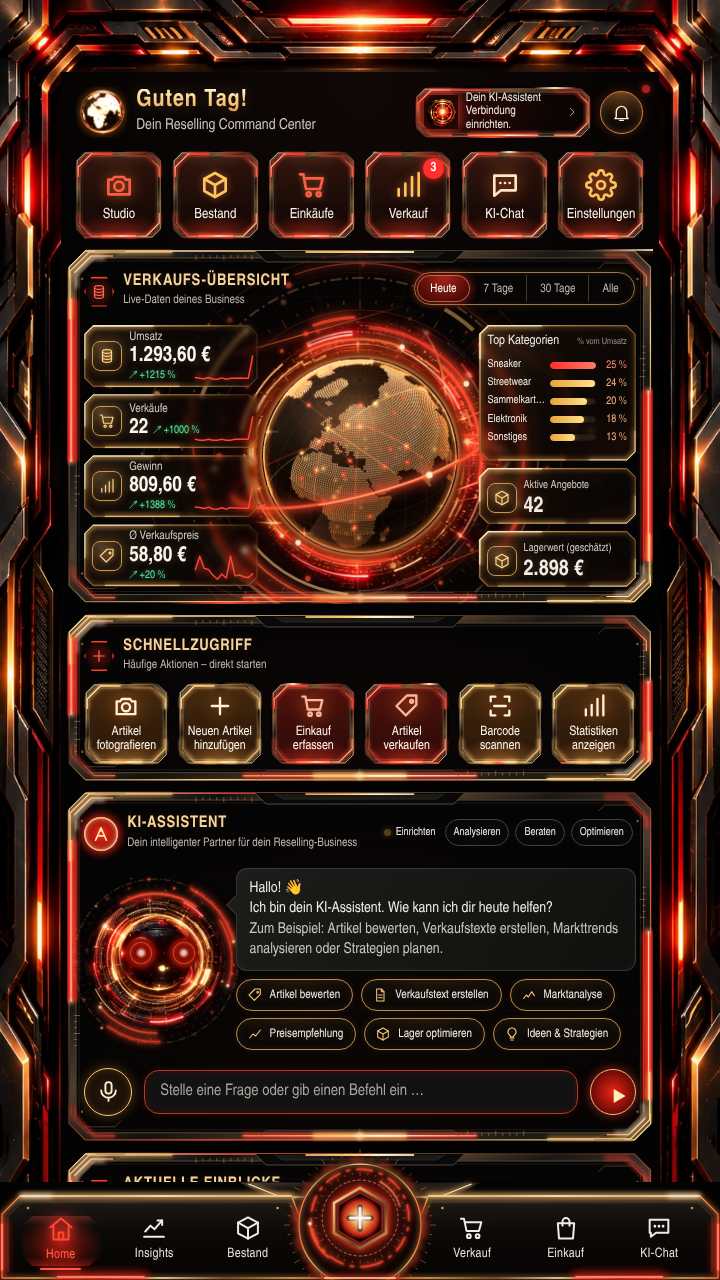
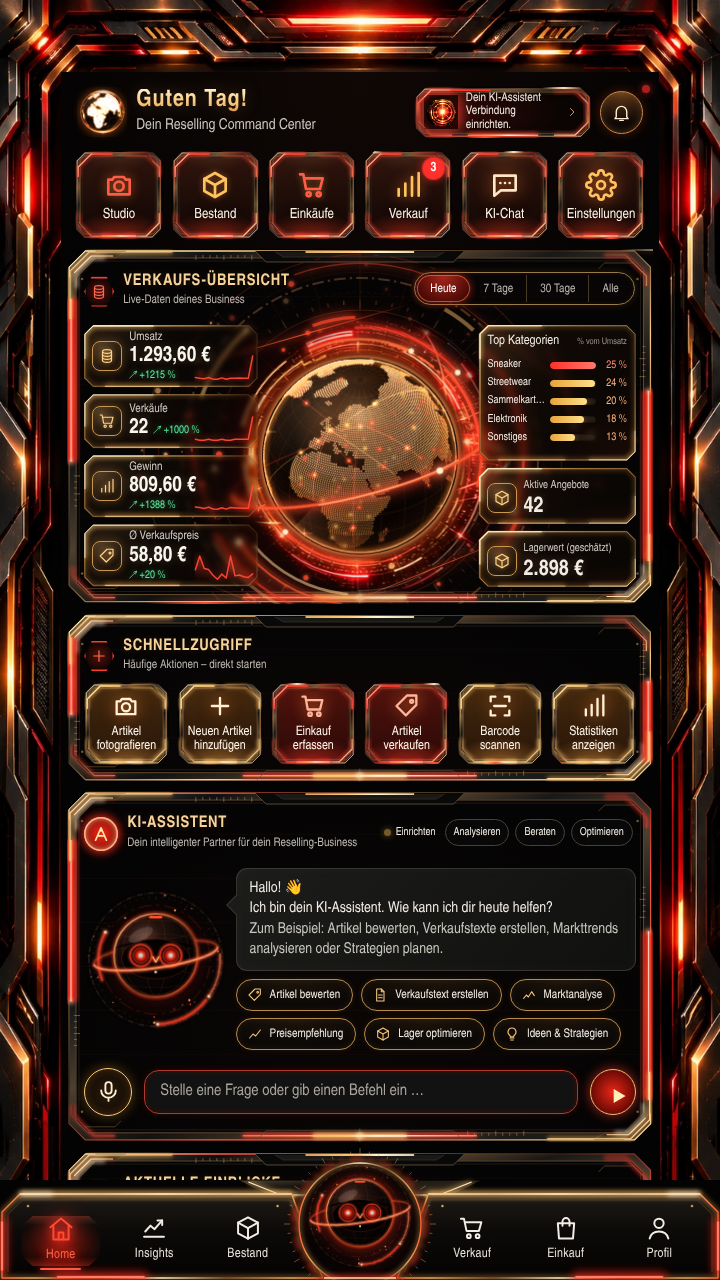
KI-Chat-Seite fertig ausgerichtet, Roboter größer
- Status-Knöpfe und Verlauf leeren korrekt oben rechts
- Titel in der Command-Schrift, Listentexte umbrechen statt abzuschneiden
- Roboterkopf auf Startseite, Chat-Seite und in der Menümitte größer

Claude-Session: https://claude.ai/code/session_0194bcZ5PbUBuV3hzmwdGD96

diff --git a/public/fx.js b/public/fx.js
@@ -518,15 +518,15 @@
   function setupRobot() {
     var f = doc.querySelector('.v15-bot-frame'); if (!f || f.querySelector('.cc-rbot')) return;
     Array.prototype.slice.call(f.children).forEach(function (c) { c.remove(); });
-    buildBot(f, { R: 46 });
-    var chat = doc.getElementById('ccChatBot'); if (chat && !chat.querySelector('.cc-rbot')) buildBot(chat, { R: 46, pedestal: true });
-    var av = doc.getElementById('ccChatAvatar'); if (av && !av.querySelector('.cc-rbot')) buildBot(av, { R: 52 });
+    buildBot(f, { R: 58 });
+    var chat = doc.getElementById('ccChatBot'); if (chat && !chat.querySelector('.cc-rbot')) buildBot(chat, { R: 60, pedestal: true });
+    var av = doc.getElementById('ccChatAvatar'); if (av && !av.querySelector('.cc-rbot')) buildBot(av, { R: 60 });
   }
 
   /* Mitte des Menüs: der KI-Chat als kleiner Roboter im Kraftfeld */
   function setupNavCore() {
     var btn = doc.querySelector('#bottomnav .orb'); if (!btn || btn.querySelector('.cc-rbot')) return;
-    buildBot(btn, { R: 54 });
+    buildBot(btn, { R: 62 });
   }
 
   /* Menü: rotes Aufleuchten beim Antippen */

diff --git a/public/ref.css b/public/ref.css
@@ -250,3 +250,13 @@ body:has(#aiChat:not(.hidden)) #aiChat { zoom:var(--cc-zoom,1); max-width:1160px
 .cc-side { padding-top:16px; }
 .cc-q b { white-space:normal; line-height:1.05; }
 .cc-chat .cc-q { gap:8px; padding:7px 8px; }
+.cc-chat .cc-chat-state, .cc-chat .cc-clear { position:absolute; }
+.cc-chat .v11-title { font-family:var(--cc-font); margin:0; font-weight:700; }
+.cc-chat-top .v11-ph { margin-bottom:18px; }
+.cc-chat-grid { grid-template-columns:minmax(0,1.12fr) minmax(0,.9fr) minmax(0,1.12fr); }
+.cc-side { padding-top:16px; }
+.cc-q b { white-space:normal; line-height:1.05; }
+.cc-chat .cc-q { gap:8px; padding:7px 8px; }
+.cc-chat .cc-clear { top:24px; right:26px; }
+.cc-talk-row { margin-top:18px; }
+.cc-chat-bot { margin:0 -8px; }

diff --git a/public/sw.js b/public/sw.js
@@ -1,4 +1,4 @@
-const CACHE='rv-studio-v18-reference-10';
+const CACHE='rv-studio-v18-reference-11';
 const FILES=['/','/index.html','/app.css','/dashboard.css','/fx.css','/ref.css','/app.js','/dashboard.js','/fx.js',
   '/vendor/jszip.min.js','/fonts/command-sans-regular.otf','/fonts/command-sans-bold.otf',
   '/rv-logo.jpg','/rv-ai-mascot.png','/rv-robot-premium.png','/rv-white.png',
